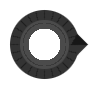
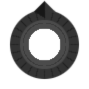
All main functionality complete - need construction anim on Contact page. Polish

diff --git a/src/components/Contact/index.tsx b/src/components/Contact/index.tsx
@@ -1,13 +1,20 @@
 import React, { useEffect, useState, useRef } from "react";
-import { AnimatePresence, motion } from "framer-motion";
+import { AnimatePresence, motion, useAnimate } from "framer-motion";
 import TerminalDisplay from "./Terminal";
 import tFrame from "../../images/terminal_frame.png";
 import tPwr from "../../images/terminal_pwr.png";
-import tDial from "../../images/terminal_dial.png"
+import tDial from "../../images/terminal_dial.png";
+import github_icon from "../../images/github_icon_white.png";
+import facebook_icon from "../../images/facebook_icon_white.png";
+import linkedin_icon from "../../images/linkedin_icon_white.png";
 
 type ContactProps = {
   data: string;
 };
+
+const githubAddress = "https://github.com/decourtney";
+const facebookAddress = "https://www.facebook.com/Donovan.Courtney78";
+const linkedinAddress = "https://www.linkedin.com/in/decourtney/";
 
 const ContactLeft = ({ data }: ContactProps) => {
   return (
@@ -19,7 +26,9 @@ const ContactLeft = ({ data }: ContactProps) => {
 
 const ContactRight = ({ data }: ContactProps) => {
   const [terminalPower, setTerminalPower] = useState(false);
-  const [isPowerBtnDisabled, setIsPowerBtnDisabled] = useState(false)
+  const [isPowerBtnDisabled, setIsPowerBtnDisabled] = useState(false);
+  const [powerButton, animatePowerButton] = useAnimate();
+  const [socialDial, animateSocialDial] = useAnimate();
 
   const variants = {
     initial: {
@@ -37,32 +46,84 @@ const ContactRight = ({ data }: ContactProps) => {
     },
   };
 
-  const handleButtonClick = (event: React.MouseEvent) => {
+  const handlePowerButtonClick = (event: React.MouseEvent) => {
     setTerminalPower(!terminalPower);
+    !terminalPower
+      ? animatePowerButton(powerButton.current, { rotateZ: 45 })
+      : animatePowerButton(powerButton.current, { rotateZ: 0 });
   };
 
   return (
-    <div className="flex w-full mr-[3%] ml-[4%] mt-[2%] mb-[5%] justify-center items-center bg-green-400">
-      <div className="relative w-full h-full">
-        <div className="absolute top-1/2 left-1/2 w-full h-full -translate-x-[50%] -translate-y-[50%]">
-          <div className="relative flex w-full h-full">
-            <img
-              src={tFrame}
-              className="w-[100%] rounded-3xl z-20 pointer-events-none"
-            />
-            <div className="absolute w-full h-full z-20 pointer-events-none">
-              <button
-                className="pointer-events-auto"
-                onClick={(e) => {
-                  handleButtonClick(e);
-                }}
-                disabled={isPowerBtnDisabled}
-              >
-                <img
-                  src={tPwr}
-                  className="absolute bottom-[12%] right-[9%] w-[10%] h-[10%]"
+    <div className="relative flex w-full mr-[3%] ml-[4%] mt-[2%] mb-[5%] justify-center items-center bg-green-400">
+      {/* <div className="relative w-full h-full"> */}
+      <div className="absolute top-1/2 left-1/2 w-[90%] h-auto -translate-x-[50%] -translate-y-[50%]">
+        <div className="relative flex w-full h-full">
+          <img
+            src={tFrame}
+            className="w-[100%] rounded-3xl z-20 pointer-events-none"
+          />
+          <div className="absolute w-full h-full z-20 pointer-events-none">
+            {/* Power Button */}
+            <motion.button
+              ref={powerButton}
+              className={`absolute bottom-[13.3%] right-[11.4%] w-[8%] pointer-events-auto`}
+              initial={{ rotate: 45 }}
+              onClick={(e) => {
+                handlePowerButtonClick(e);
+              }}
+              disabled={isPowerBtnDisabled}
+            >
+              <img src={tPwr} />
+            </motion.button>
+
+            {/* Unused Button */}
+            <button className="absolute bottom-[13.3%] right-[27%] w-[8%] rotate-45">
+              <img src={tPwr} />
+            </button>
+
+            {/* Expansion of terminal functionality - move dial to Terminal for terminal display of links */}
+            {/* Social Dial Group */}
+            <div className="absolute bottom-[12.8%] left-[40%] w-[9%]">
+              <motion.img
+                ref={socialDial}
+                src={tDial}
+                className="w-full"
+                initial={{ rotate: 0 }}
+              />
+
+              <a href={githubAddress} target="blank">
+                <motion.img
+                  src={github_icon}
+                  className="absolute -top-[10%] left-[95%] w-[30%] pointer-events-auto cursor-pointer"
+                  whileHover={{ scale: 1.2 }}
+                  onClick={(e) => {
+                    animateSocialDial(socialDial.current, { rotate: 45 });
+                  }}
                 />
-              </button>
+              </a>
+
+              <a href={facebookAddress} target="blank">
+                <motion.img
+                  src={facebook_icon}
+                  className="absolute top-1/2 left-[105%] w-[30%] pointer-events-auto cursor-pointer"
+                  initial={{ translateY: "-50%" }}
+                  whileHover={{ scale: 1.2 }}
+                  onClick={(e) => {
+                    animateSocialDial(socialDial.current, { rotate: 90 });
+                  }}
+                />
+              </a>
+
+              <a href={linkedinAddress} target="blank">
+                <motion.img
+                  src={linkedin_icon}
+                  className="absolute -bottom-[10%] left-[95%] w-[30%] pointer-events-auto cursor-pointer"
+                  whileHover={{ scale: 1.2 }}
+                  onClick={(e) => {
+                    animateSocialDial(socialDial.current, { rotate: 135 });
+                  }}
+                />
+              </a>
             </div>
           </div>
           <AnimatePresence mode="wait">
@@ -76,7 +137,18 @@ const ContactRight = ({ data }: ContactProps) => {
             )}
           </AnimatePresence>
         </div>
+        {/* <AnimatePresence mode="wait">
+            {terminalPower ? (
+              <TerminalDisplay
+                key={"terminal"}
+                setIsPowerBtnDisabled={setIsPowerBtnDisabled}
+              />
+            ) : (
+              <div className="absolute top-1/2 left-1/2 w-[75%] h-[57%] p-8 -translate-x-[50%] -translate-y-[66%] bg-black" />
+            )}
+          </AnimatePresence> */}
       </div>
+      {/* </div> */}
     </div>
   );
 };

diff --git a/src/output.css b/src/output.css
@@ -599,6 +599,10 @@ video {
   inset: 0px;
 }
 
+.-bottom-\[10\%\] {
+  bottom: -10%;
+}
+
 .-left-\[0\%\] {
   left: -0%;
 }
@@ -623,6 +627,10 @@ video {
   right: -7%;
 }
 
+.-top-\[10\%\] {
+  top: -10%;
+}
+
 .-top-\[23\%\] {
   top: -23%;
 }
@@ -635,8 +643,12 @@ video {
   bottom: 0%;
 }
 
-.bottom-\[12\%\] {
-  bottom: 12%;
+.bottom-\[12\.8\%\] {
+  bottom: 12.8%;
+}
+
+.bottom-\[13\.3\%\] {
+  bottom: 13.3%;
 }
 
 .bottom-\[35\%\] {
@@ -655,8 +667,16 @@ video {
   left: 50%;
 }
 
+.left-\[105\%\] {
+  left: 105%;
+}
+
 .left-\[4\%\] {
   left: 4%;
+}
+
+.left-\[40\%\] {
+  left: 40%;
 }
 
 .left-\[48\.5\%\] {
@@ -665,6 +685,10 @@ video {
 
 .left-\[50\%\] {
   left: 50%;
+}
+
+.left-\[95\%\] {
+  left: 95%;
 }
 
 .right-0 {
@@ -679,16 +703,20 @@ video {
   right: 10.5%;
 }
 
+.right-\[11\.4\%\] {
+  right: 11.4%;
+}
+
+.right-\[27\%\] {
+  right: 27%;
+}
+
 .right-\[5\.6\%\] {
   right: 5.6%;
 }
 
 .right-\[8\%\] {
   right: 8%;
-}
-
-.right-\[9\%\] {
-  right: 9%;
 }
 
 .top-0 {
@@ -940,6 +968,10 @@ video {
   height: 90%;
 }
 
+.h-auto {
+  height: auto;
+}
+
 .h-fit {
   height: -webkit-fit-content;
   height: -moz-fit-content;
@@ -1074,6 +1106,10 @@ video {
   width: 86%;
 }
 
+.w-\[9\%\] {
+  width: 9%;
+}
+
 .w-\[90\%\] {
   width: 90%;
 }
@@ -1098,6 +1134,29 @@ video {
 
 .flex-grow {
   flex-grow: 1;
+}
+
+.border-spacing-1 {
+  --tw-border-spacing-x: 0.25rem;
+  --tw-border-spacing-y: 0.25rem;
+  border-spacing: var(--tw-border-spacing-x) var(--tw-border-spacing-y);
+}
+
+.border-spacing-5 {
+  --tw-border-spacing-x: 1.25rem;
+  --tw-border-spacing-y: 1.25rem;
+  border-spacing: var(--tw-border-spacing-x) var(--tw-border-spacing-y);
+}
+
+.border-spacing-2 {
+  --tw-border-spacing-x: 0.5rem;
+  --tw-border-spacing-y: 0.5rem;
+  border-spacing: var(--tw-border-spacing-x) var(--tw-border-spacing-y);
+}
+
+.border-spacing-x-56 {
+  --tw-border-spacing-x: 14rem;
+  border-spacing: var(--tw-border-spacing-x) var(--tw-border-spacing-y);
 }
 
 .origin-bottom {
@@ -1206,6 +1265,12 @@ video {
 
 .translate-x-\[0\%\] {
   --tw-translate-x: 0%;
+  -webkit-transform: translate(var(--tw-translate-x), var(--tw-translate-y)) rotate(var(--tw-rotate)) skewX(var(--tw-skew-x)) skewY(var(--tw-skew-y)) scaleX(var(--tw-scale-x)) scaleY(var(--tw-scale-y));
+          transform: translate(var(--tw-translate-x), var(--tw-translate-y)) rotate(var(--tw-rotate)) skewX(var(--tw-skew-x)) skewY(var(--tw-skew-y)) scaleX(var(--tw-scale-x)) scaleY(var(--tw-scale-y));
+}
+
+.rotate-45 {
+  --tw-rotate: 45deg;
   -webkit-transform: translate(var(--tw-translate-x), var(--tw-translate-y)) rotate(var(--tw-rotate)) skewX(var(--tw-skew-x)) skewY(var(--tw-skew-y)) scaleX(var(--tw-scale-x)) scaleY(var(--tw-scale-y));
           transform: translate(var(--tw-translate-x), var(--tw-translate-y)) rotate(var(--tw-rotate)) skewX(var(--tw-skew-x)) skewY(var(--tw-skew-y)) scaleX(var(--tw-scale-x)) scaleY(var(--tw-scale-y));
 }
@@ -1351,6 +1416,19 @@ video {
 
 .rounded-xl {
   border-radius: 0.75rem;
+}
+
+.border {
+  border-width: 1px;
+}
+
+.border-8 {
+  border-width: 8px;
+}
+
+.border-gray-950 {
+  --tw-border-opacity: 1;
+  border-color: rgb(3 7 18 / var(--tw-border-opacity));
 }
 
 .bg-\[\#929292\] {
@@ -1603,6 +1681,12 @@ video {
 
 .drop-shadow-md {
   --tw-drop-shadow: drop-shadow(0 4px 3px rgb(0 0 0 / 0.07)) drop-shadow(0 2px 2px rgb(0 0 0 / 0.06));
+  -webkit-filter: var(--tw-blur) var(--tw-brightness) var(--tw-contrast) var(--tw-grayscale) var(--tw-hue-rotate) var(--tw-invert) var(--tw-saturate) var(--tw-sepia) var(--tw-drop-shadow);
+          filter: var(--tw-blur) var(--tw-brightness) var(--tw-contrast) var(--tw-grayscale) var(--tw-hue-rotate) var(--tw-invert) var(--tw-saturate) var(--tw-sepia) var(--tw-drop-shadow);
+}
+
+.invert {
+  --tw-invert: invert(100%);
   -webkit-filter: var(--tw-blur) var(--tw-brightness) var(--tw-contrast) var(--tw-grayscale) var(--tw-hue-rotate) var(--tw-invert) var(--tw-saturate) var(--tw-sepia) var(--tw-drop-shadow);
           filter: var(--tw-blur) var(--tw-brightness) var(--tw-contrast) var(--tw-grayscale) var(--tw-hue-rotate) var(--tw-invert) var(--tw-saturate) var(--tw-sepia) var(--tw-drop-shadow);
 }

diff --git a/src/components/Contact/Terminal.tsx b/src/components/Contact/Terminal.tsx
@@ -63,7 +63,7 @@ const TerminalDisplay = ({ setIsPowerBtnDisabled }: TerminalProps) => {
     },
     off: {
       opacity: 0,
-      transition: { duration: 2 },
+      transition: { duration: 1.5 },
     },
   };
 
